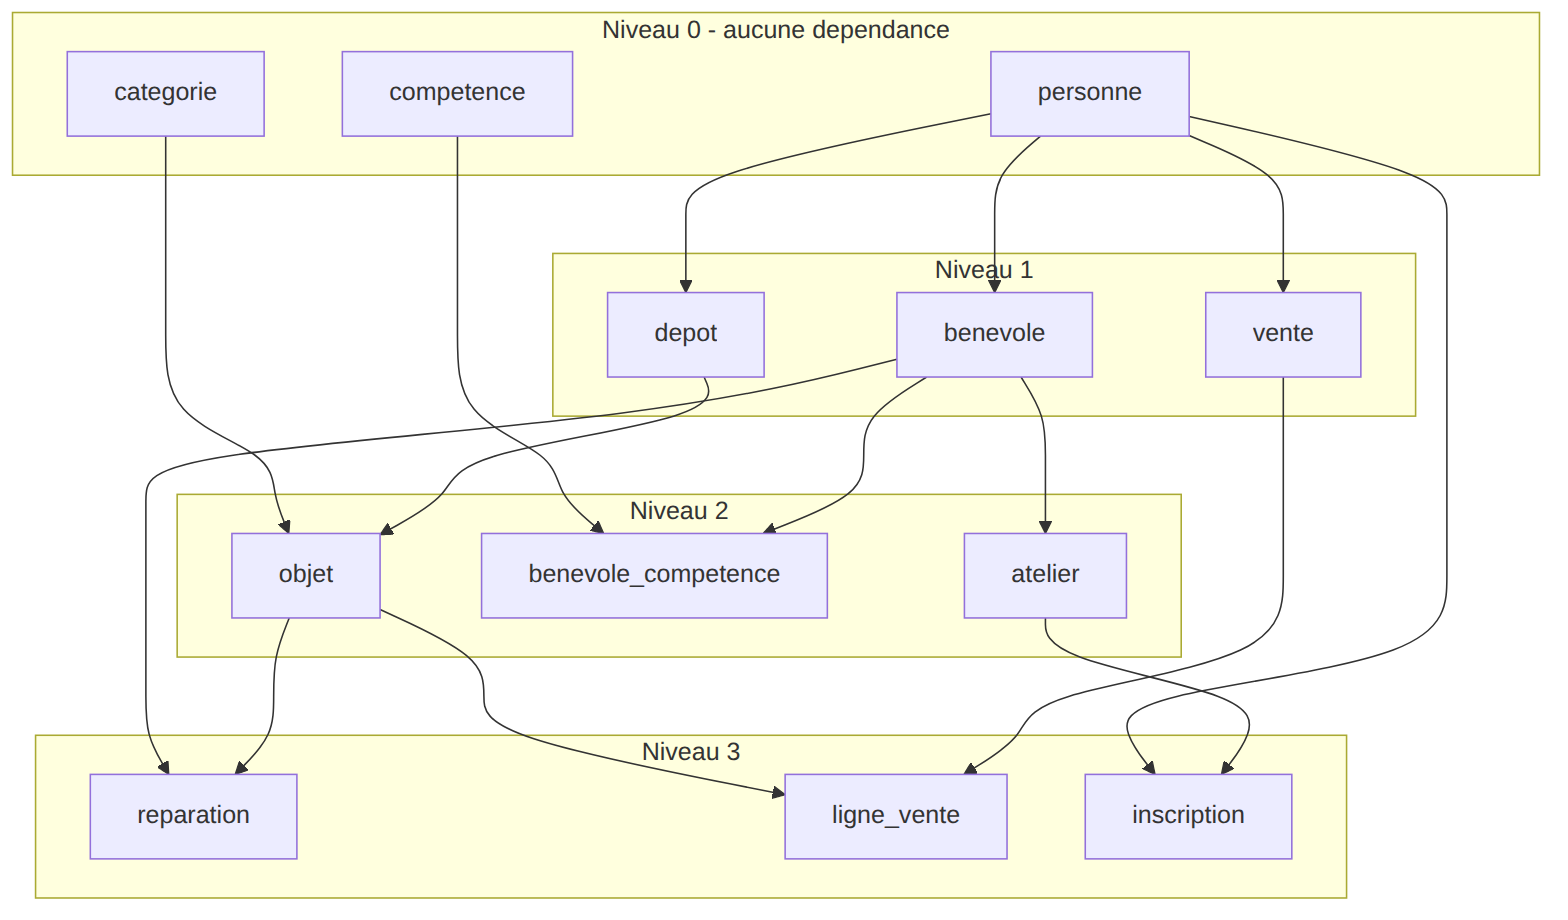
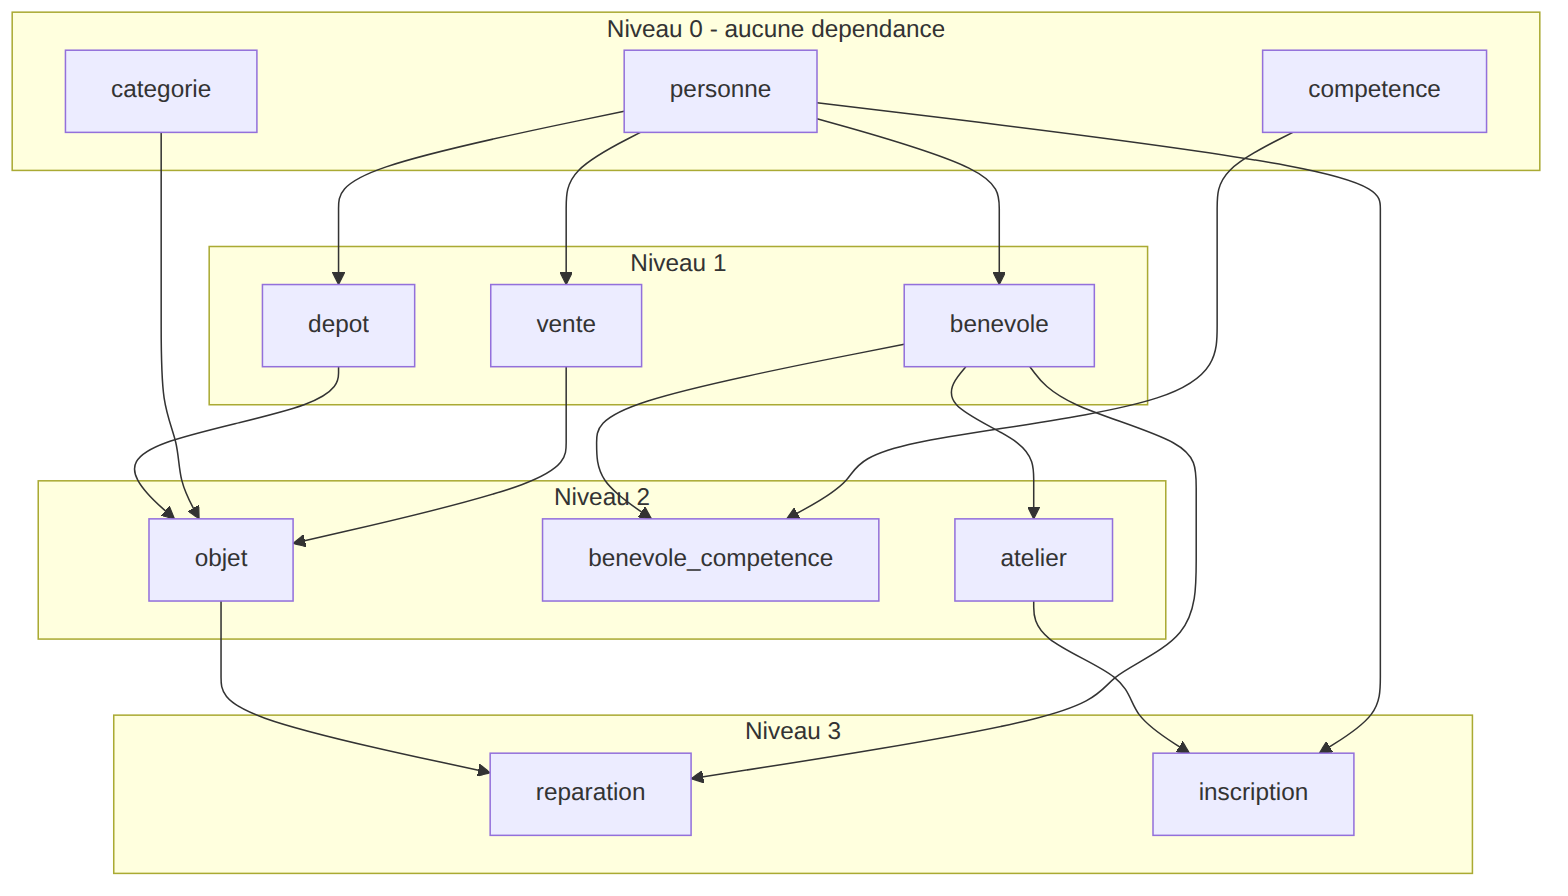
Phase 3 : schema relationnel 11 tables

diff --git a/conception/schema-relationnel.md b/conception/schema-relationnel.md
@@ -1,0 +1,155 @@
+# Schéma relationnel — La Remise
+
+Résultat du passage du schéma E-A au relationnel.
+Notation : `Table(clePrimaire, champ, #cleEtrangere)`.
+
+---
+
+## Les trois règles de passage
+
+| Règle | Énoncé | Où elle s'applique ici |
+|---|---|---|
+| **R1** | Toute entité devient une table. Son identifiant devient la clé primaire. | Les 9 entités |
+| **R2** | Association binaire dont **une patte a une cardinalité max = 1** : la clé de l'entité opposée migre en clé étrangère du côté (x,1), avec les éventuels attributs de l'association. | EST AUSSI, FAIT, CONTIENT, APPARTIENT A, CONCERNE, EFFECTUE, ACHETE, COMPORTE, ANIME |
+| **R3** | Association dont **les deux pattes ont une cardinalité max = n** : elle devient une table, clé primaire composée des clés des entités, plus ses attributs propres. | POSSEDE, S'INSCRIT A |
+
+---
+
+## Les 11 relations
+
+### 1. personne
+```
+personne(id_personne, nom, prenom, telephone, email, est_adherent)
+```
+> **R1** sur l'entité PERSONNE. Aucune association ne lui envoie de clé : toutes ses associations sont du côté (x,n).
+
+### 2. categorie
+```
+categorie(id_categorie, libelle)
+```
+> **R1** sur l'entité CATEGORIE.
+
+### 3. competence
+```
+competence(id_competence, libelle)
+```
+> **R1** sur l'entité COMPETENCE.
+
+### 4. benevole
+```
+benevole(#id_personne, date_entree, est_actif)
+```
+> **R1** sur l'entité BENEVOLE, puis **R2** sur EST AUSSI — PERSONNE (0,1) — (1,1) BENEVOLE.
+> Cardinalité max 1 des deux côtés : la clé de `personne` migre et **devient elle-même la clé primaire**. C'est la signature d'une spécialisation 1:1 *(D1)*.
+
+### 5. depot
+```
+depot(id_depot, date_depot, type_depot, #id_personne)
+```
+> **R1** sur DEPOT, puis **R2** sur FAIT — PERSONNE (0,n) — (1,1) DEPOT.
+> La patte DEPOT est en (1,1) : la clé de `personne` migre dans `depot`. NOT NULL, car le minimum est 1 *(RG1)*.
+
+### 6. vente
+```
+vente(id_vente, date_vente, mode_paiement, #id_personne)
+```
+> **R1** sur VENTE, puis **R2** sur ACHETE LORS DE — PERSONNE (0,n) — (0,1) VENTE.
+> La patte VENTE est en (0,1) : la clé de `personne` migre. Minimum 0 → la colonne est **nullable** *(D11 : client de passage)*.
+
+### 7. objet
+```
+objet(id_objet, etiquette, designation, poids_g, etat_arrivee, statut,
+      prix_affiche, date_mise_en_rayon, date_sortie_rayon, prix_paye,
+      #id_depot, #id_categorie, #id_vente)
+```
+> **R1** sur OBJET, puis **R2** trois fois :
+> - CONTIENT — DEPOT (1,n) — (1,1) OBJET → `#id_depot`, NOT NULL *(RG3)*
+> - APPARTIENT A — OBJET (1,1) — (0,n) CATEGORIE → `#id_categorie`, NOT NULL *(RG4)*
+> - COMPORTE — VENTE (1,n) — (0,1) OBJET → `#id_vente` **et l'attribut `prix_paye` porté par l'association**, tous deux nullables *(RG9, RG10, D13)*
+>
+> Le troisième cas est le plus discuté : voir D13. L'association est 1:n, donc R2, pas R3 — pas de table de liaison.
+
+### 8. atelier
+```
+atelier(id_atelier, intitule, date_atelier, duree_heures, nb_places, #id_benevole)
+```
+> **R1** sur ATELIER, puis **R2** sur ANIME — BENEVOLE (0,n) — (1,1) ATELIER.
+> `#id_benevole` NOT NULL *(RG12 : un seul animateur, obligatoire)*.
+
+### 9. reparation
+```
+reparation(id_reparation, date_reparation, duree_heures, resultat,
+           #id_objet, #id_benevole)
+```
+> **R1** sur REPARATION *(entité et non association — voir D12)*, puis **R2** deux fois :
+> - CONCERNE — OBJET (0,n) — (1,1) REPARATION → `#id_objet`, NOT NULL
+> - EFFECTUE — BENEVOLE (0,n) — (1,1) REPARATION → `#id_benevole`, NOT NULL
+>
+> *(RG7, RG8)*
+
+### 10. benevole_competence
+```
+benevole_competence(#id_benevole, #id_competence)
+```
+> **R3** sur POSSEDE — BENEVOLE (0,n) — (0,n) COMPETENCE.
+> Les deux pattes sont en (x,n) : l'association devient une table. Clé primaire composée des deux clés. Aucun attribut propre → table de liaison pure *(RG11)*.
+
+### 11. inscription
+```
+inscription(#id_atelier, #id_personne, date_inscription, est_present)
+```
+> **R3** sur S'INSCRIT A — PERSONNE (0,n) — (0,n) ATELIER.
+> Les deux pattes en (x,n) : table, clé primaire composée. L'association **porte des attributs** (`date_inscription`, `est_present`), qui deviennent des colonnes *(RG13, RG14)*.
+> La clé composée garantit qu'une personne ne s'inscrit pas deux fois au même atelier.
+
+---
+
+## Récapitulatif : quelle règle a produit quoi
+
+| Relation | Règle(s) | Association source |
+|---|---|---|
+| `personne` | R1 | — |
+| `categorie` | R1 | — |
+| `competence` | R1 | — |
+| `benevole` | R1 + R2 | EST AUSSI |
+| `depot` | R1 + R2 | FAIT |
+| `vente` | R1 + R2 | ACHETE LORS DE |
+| `objet` | R1 + R2 ×3 | CONTIENT, APPARTIENT A, COMPORTE |
+| `atelier` | R1 + R2 | ANIME |
+| `reparation` | R1 + R2 ×2 | CONCERNE, EFFECTUE |
+| `benevole_competence` | R3 | POSSEDE |
+| `inscription` | R3 | S'INSCRIT A |
+
+**9 entités → 9 tables (R1). 9 associations 1:n → 9 clés étrangères (R2). 2 associations n:n → 2 tables (R3). Total : 11 tables.**
+
+---
+
+## Arbre de dépendances
+
+Voir `arbre-dependances.png`. Ordre de création dans `migration_up.sql` :
+
+| Niveau | Tables | Dépend de |
+|---|---|---|
+| **0** | `personne`, `categorie`, `competence` | rien |
+| **1** | `benevole`, `depot`, `vente` | personne |
+| **2** | `objet`, `benevole_competence`, `atelier` | depot, categorie, vente, benevole, competence |
+| **3** | `reparation`, `inscription` | objet, benevole, atelier, personne |
+
+`migration_down.sql` fait exactement l'inverse : niveau 3 → niveau 0.
+
+---
+
+## Contraintes d'intégrité complémentaires
+
+Non déductibles des règles de passage, mais imposées par les RG :
+
+| Contrainte | Table | Source |
+|---|---|---|
+| `UNIQUE(etiquette)` | objet | Étiquette physique unique |
+| `UNIQUE(libelle)` | categorie, competence | D7 |
+| `CHECK(poids_g > 0)` | objet | Bon sens métier |
+| `CHECK(duree_heures > 0)` | reparation, atelier | RG8, RG12 |
+| `CHECK(nb_places > 0)` | atelier | RG12 |
+| `CHECK(prix_paye >= 0)` | objet | RG10 |
+| `CHECK` cohérence vente | objet | `statut='vendu'` ⟺ `id_vente` renseigné *(D13)* |
+| Cardinalité min 1 sur CONTIENT | depot | RG3 — **non implémentée**, voir D4 |

diff --git a/conception/schemas-relations/LISEZ-MOI.md b/conception/schemas-relations/LISEZ-MOI.md
@@ -10,7 +10,7 @@ Chaque `.mmd` est la source Mermaid (éditable), chaque `.png` est le rendu.
 | `03-depot-objet` | Qui donne quoi, et quand (RG1, RG2, RG3) |
 | `04-objet-categorie` | Le classement et le cycle de vie de l'objet (RG4, RG5, RG6) |
 | `05-reparation` | Qui répare quoi, combien de temps (RG7, RG8) |
-| `06-vente` | Le passage en caisse multi-objets (RG9, RG10) |
+| `06-vente` | Le passage en caisse multi-objets (RG9, RG10, D13) |
 | `07-competences` | Le n:n bénévole ↔ compétence (RG11) |
 | `08-ateliers` | Animation et inscriptions (RG12, RG13, RG14) |
 | `09-arbre-dependances` | L'ordre de création des tables |
@@ -72,21 +72,23 @@ simple table de liaison.
 
 ---
 
-## 06 — Vente / Ligne de vente / Objet
+## 06 — Vente / Objet
 
-- Une vente regroupe **1 à n** objets. *(RG9 — un passage en caisse, plusieurs objets)*
+- Une vente comporte **1 à n** objets. *(RG9 — un passage en caisse, plusieurs objets)*
 - Un objet est vendu lors de **0 ou 1** vente. *(RG9)*
 
-`ligne_vente` a une **clé primaire composée** (`id_vente`, `id_objet`) et porte
-`prix_paye` *(RG10)*. Comme `id_objet` fait partie de la PK et qu'un objet ne peut
-apparaître qu'une fois, la contrainte « un objet vendu une seule fois » est
-garantie par un `UNIQUE(id_objet)`.
+Association **1:n**, donc traitée par **R2** : la clé de `vente` migre dans `objet`,
+accompagnée de `prix_paye`, l'attribut porté par l'association. **Pas de table de
+liaison** — voir décision D13.
 
 Deux prix cohabitent volontairement *(décision D6)* :
 - `objet.prix_affiche` : le prix en rayon
-- `ligne_vente.prix_paye` : ce qui a réellement été encaissé
+- `objet.prix_paye` : ce qui a réellement été encaissé
 
-L'écart entre les deux = les gestes commerciaux faits aux adhérents.
+L'écart entre les deux mesure les gestes commerciaux faits aux adhérents.
+
+> `id_vente` et `prix_paye` sont NULL tant que l'objet n'est pas vendu, en cohérence
+> avec `statut = 'vendu'`.
 
 ---
 
@@ -130,8 +132,8 @@ Ordre de création dans `migration_up.sql` (et ordre inverse dans `migration_dow
 |---|---|---|
 | 0 | `personne`, `categorie`, `competence` | rien |
 | 1 | `benevole`, `depot`, `vente` | personne |
-| 2 | `objet`, `benevole_competence`, `atelier` | depot, categorie, benevole, competence |
-| 3 | `reparation`, `ligne_vente`, `inscription` | objet, benevole, vente, atelier, personne |
+| 2 | `objet`, `benevole_competence`, `atelier` | depot, categorie, vente, benevole, competence |
+| 3 | `reparation`, `inscription` | objet, benevole, atelier, personne |
 
 Une table ne peut être créée que si toutes celles qu'elle référence existent déjà.
 Le `DROP` se fait exactement dans l'ordre inverse : niveau 3 → 0.

diff --git a/conception/dictionnaire.md b/conception/dictionnaire.md
@@ -53,8 +53,10 @@ Les clés primaires techniques sont des `SERIAL` (entier auto-incrémenté).
 | prix_affiche | Prix en rayon | NUMERIC | 8,2 | NULL tant que non mis en rayon | Décision D6 |
 | date_mise_en_rayon | Entrée en rayon | DATE | — | NULL autorisé | Questions 2 et 10 |
 | date_sortie_rayon | Sortie de rayon | DATE | — | NULL autorisé | Invendu au bout de 6 mois |
+| prix_paye | Prix réellement encaissé | NUMERIC | 8,2 | NULL tant que non vendu, CHECK >= 0 | RG10, décision D6 |
 | id_depot | Dépôt d'origine | INTEGER | — | NOT NULL, FK → depot | RG3 |
 | id_categorie | Catégorie | INTEGER | — | NOT NULL, FK → categorie | RG4 |
+| id_vente | Vente | INTEGER | — | NULL tant que non vendu, FK → vente | RG9, produit par R2 (D13) |
 
 ## REPARATION
 
@@ -75,14 +77,6 @@ Les clés primaires techniques sont des `SERIAL` (entier auto-incrémenté).
 | date_vente | Date de la vente | DATE | — | NOT NULL, DEFAULT CURRENT_DATE | RG10 |
 | mode_paiement | Moyen de paiement | ENUM | — | NOT NULL | RG10 |
 | id_personne | Acheteur | INTEGER | — | NULL autorisé, FK → personne | Décision D11 |
-
-## LIGNE_VENTE — association porteuse (RG9, RG10)
-
-| Nom | Description | Type | Taille | Contraintes | Remarques |
-|---|---|---|---|---|---|
-| id_vente | Vente concernée | INTEGER | — | PK composée, FK → vente | |
-| id_objet | Objet vendu | INTEGER | — | PK composée, FK → objet, UNIQUE | UNIQUE : RG9 |
-| prix_paye | Prix réellement encaissé | NUMERIC | 8,2 | NOT NULL, CHECK >= 0 | RG10, décision D6 |
 
 ## COMPETENCE
 

diff --git a/conception/decisions.md b/conception/decisions.md
@@ -121,3 +121,15 @@ Chaque ambiguïté relevée dans l'entretien de Malika, le choix retenu, et sa j
 **Décision :** `reparation` est une entité avec son propre identifiant, reliée à `objet` et `benevole` par deux associations.
 
 **Justification :** une association binaire porteuse de données ne peut pas stocker deux fois le même couple (objet, bénévole). Or un même bénévole peut réparer deux fois le même objet. L'entité est la seule modélisation correcte.
+
+---
+
+## D13 — La vente est rattachée à l'objet par R2, sans table de liaison
+
+**Ambiguïté :** faut-il une table `ligne_vente` comme dans un logiciel de caisse classique ?
+
+**Décision :** non. `objet` reçoit `#id_vente` et `prix_paye`, tous deux nullables.
+
+**Justification :** RG9 pose une association **1:n**, pas n:n — un objet est vendu lors d'une seule vente. Une patte de l'association a donc une cardinalité maximale de 1, ce qui déclenche **R2** et non R3 : la clé de `vente` migre dans `objet`, accompagnée de l'attribut porté par l'association. Une table de liaison serait justifiée si un objet pouvait apparaître dans plusieurs ventes, ou si la vente portait des quantités — ce n'est pas le cas d'une ressourcerie où chaque objet est une pièce unique.
+
+**Conséquence assumée :** `objet.id_vente` et `objet.prix_paye` sont NULL tant que l'objet n'est pas vendu. C'est cohérent avec `statut = 'vendu'`, et une contrainte CHECK garantit la cohérence des deux.

diff --git a/conception/LISEZ-MOI.md b/conception/LISEZ-MOI.md
@@ -5,10 +5,11 @@
 | Fichier | Phase | Rôle |
 |---|---|---|
 | `dictionnaire.md` | 1 | Inventaire de toutes les données |
-| `decisions.md` | 1 | Les 12 ambiguïtés tranchées |
+| `decisions.md` | 1 | Les 13 ambiguïtés tranchées |
 | `schema-ea.png` | 2 | Schéma entité-association — **sans clé étrangère** |
-| `schema-ea.dot` | 2 | Source éditable du schéma E-A (graphviz) |
+| `schema-ea.mmd` | 2 | Source éditable du schéma E-A (Mermaid) |
 | `phrases-cardinalites.md` | 2 | Lecture à voix haute de chaque cardinalité |
+| `schema-relationnel.md` | 3 | Les 11 relations + la règle qui a produit chacune |
 | `arbre-dependances.png` | 3 | Ordre de création des tables |
 | `schemas-relations/` | — | 9 schémas de détail, un par relation, pour réviser |
 
@@ -25,6 +26,8 @@ Les FK ne sont pas une donnée de départ, elles sont ce qu'on démontre en Phas
 ## Régénérer les images
 
 ```bash
-brew install graphviz
-dot -Tpng -Gdpi=140 schema-ea.dot -o schema-ea.png
+npm install -g @mermaid-js/mermaid-cli
+mmdc -i schema-ea.mmd -o schema-ea.png -b white -s 2
 ```
+
+Ou coller le `.mmd` sur https://mermaid.live pour un rendu immédiat.
